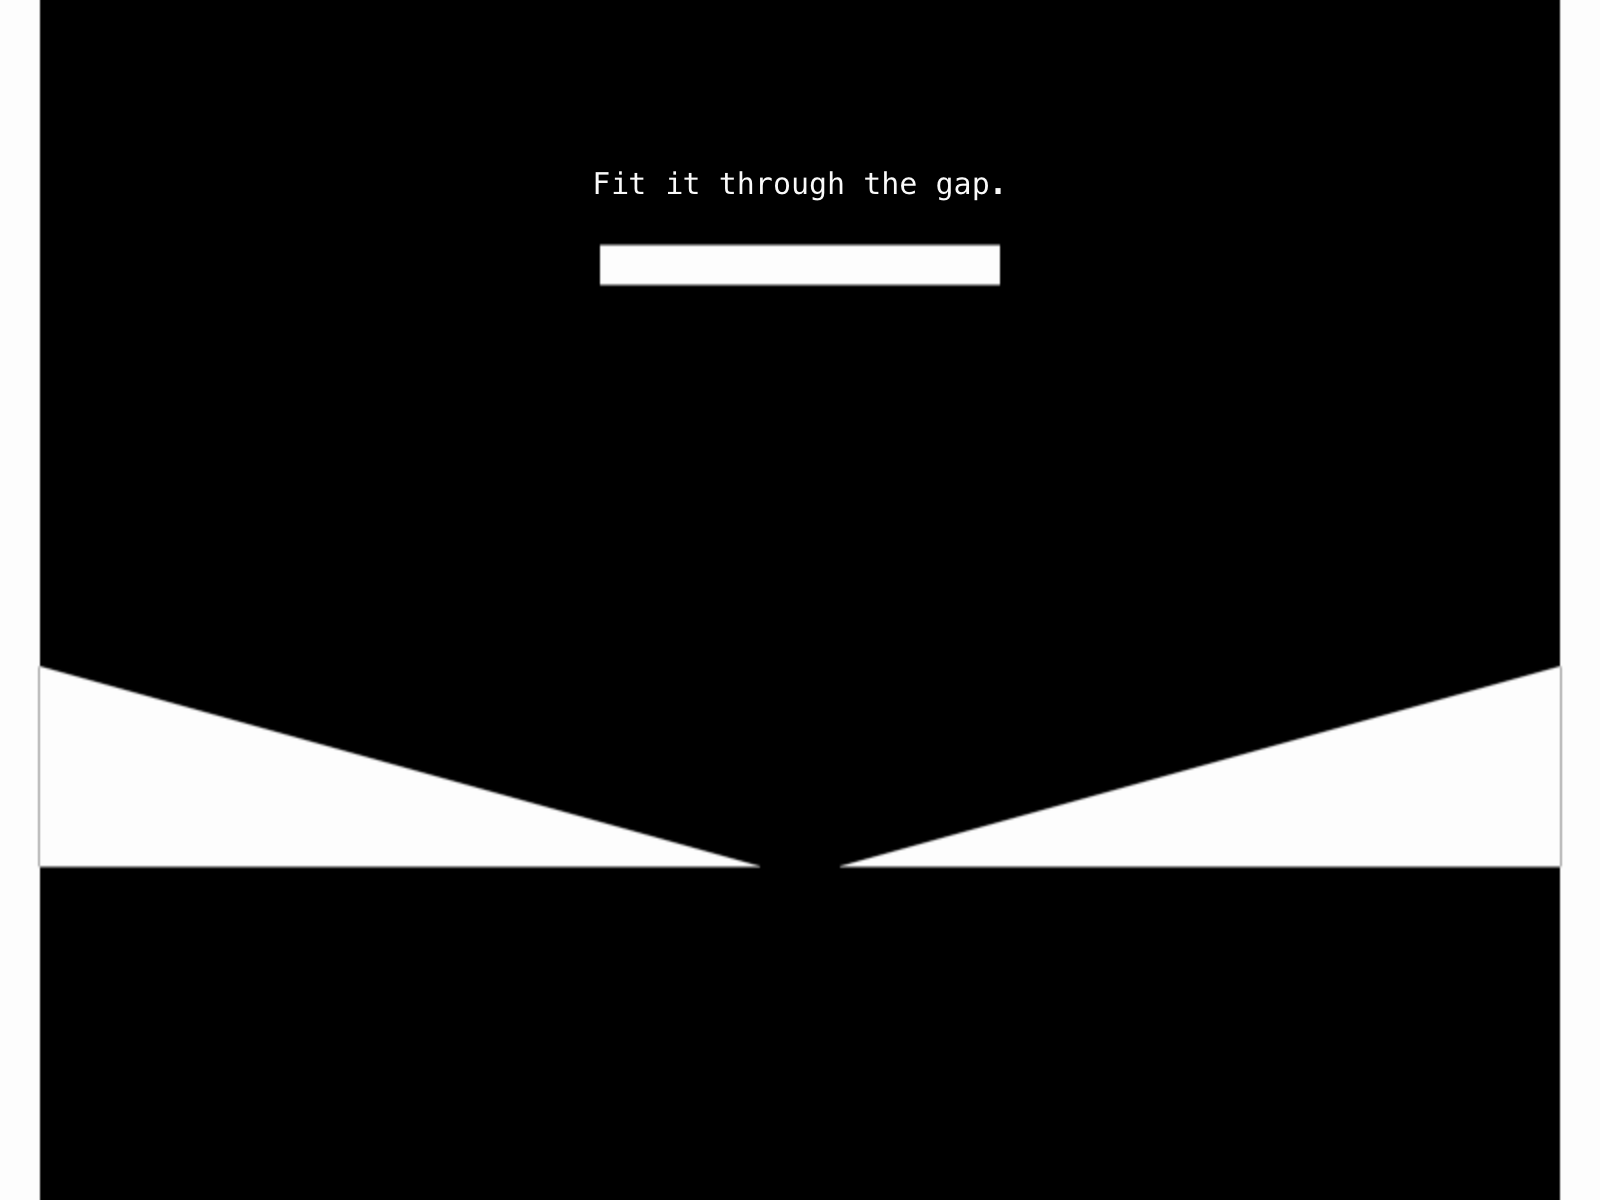
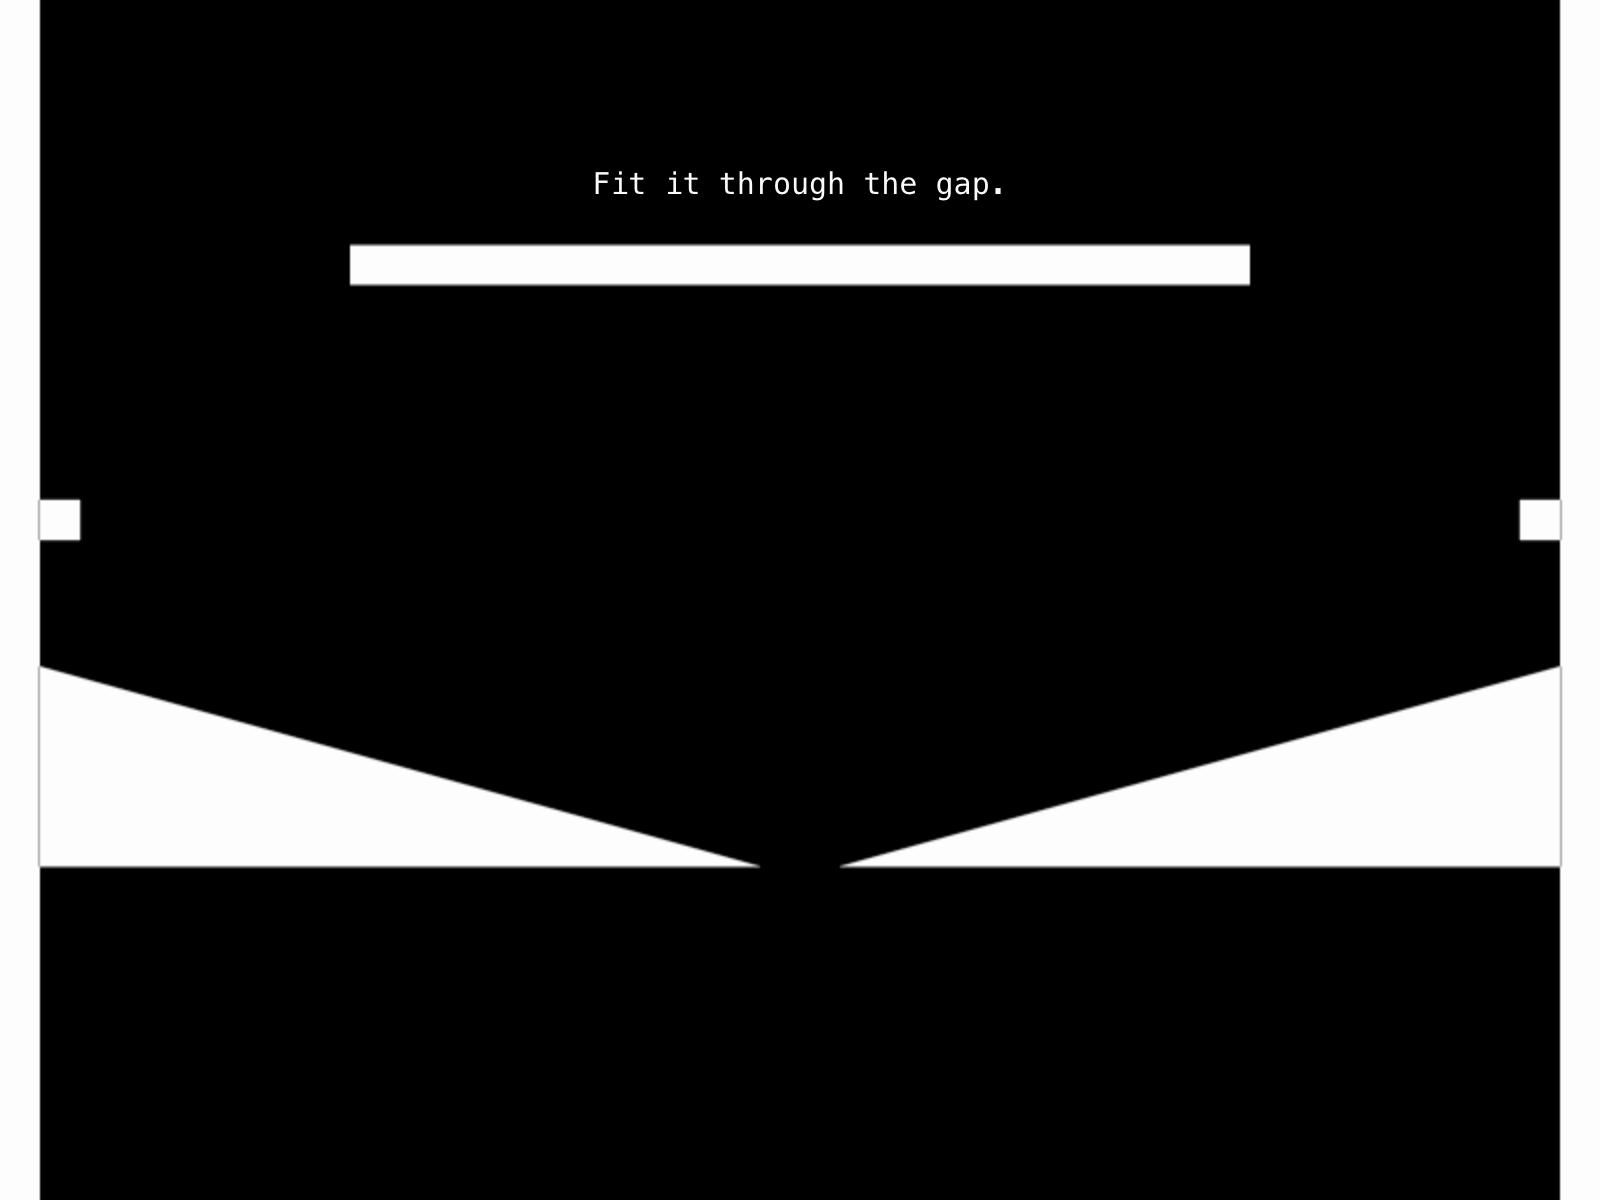
Make BetweenWedges harder

diff --git a/src/ts/draw-mode/levels/bloom/BetweenWedges.ts b/src/ts/draw-mode/levels/bloom/BetweenWedges.ts
@@ -1,6 +1,5 @@
 import type { LevelSpec } from "@/ts/draw-mode/Level"
-import { Color } from "@/ts/draw-mode/Theme"
-import { Bodies, Body, Engine, Events, Vector } from "matter-js"
+import { Bodies, Engine } from "matter-js"
 import * as EndCondition from "@/ts/draw-mode/EndCondition"
 import BodyUtil from "@/ts/draw-mode/BodyUtil"
 
@@ -9,7 +8,14 @@ const level: LevelSpec = {
 
     const walls = BodyUtil.wallSides()
 
-    const rod = Bodies.rectangle(400, 100, 200, 20)
+    const leftBlock = Bodies.rectangle(30, 260, 20, 20, {
+      isStatic: true
+    })
+    const rightBlock = Bodies.rectangle(770, 260, 20, 20, {
+      isStatic: true
+    })
+
+    const rod = Bodies.rectangle(400, 100, 450, 20)
 
     const leftWedge = BodyUtil.rightAngle(140, 400, 360, 100, 'NE', {
       isStatic: true
@@ -25,7 +31,9 @@ const level: LevelSpec = {
       walls,
       rod,
       leftWedge,
-      rightWedge
+      rightWedge,
+      leftBlock,
+      rightBlock
     ]
   },
   id: 'BetweenWedges',
